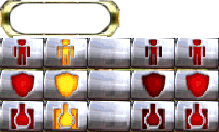
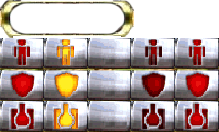
Added new buttons and functionality to buttons as Create conscripts

Changed region(s): [[0.411, 0.0, 0.6301, 0.303], [0.274, 0.2424, 0.3836, 0.2727], [0.274, 0.0, 0.3836, 0.0303]]

diff --git a/Order_227/Motor2D/UserInterface.cpp b/Order_227/Motor2D/UserInterface.cpp
@@ -9,6 +9,8 @@
 #include "Input.h"
 #include "Scene.h"
 #include "Window.h"
+#include "Animation.h"
+#include "Player.h"
 
 #include "UserInterface.h"
 #include "UIElement.h"
@@ -44,13 +46,11 @@ bool User_Interface::Awake(pugi::xml_node& config)
 	return ret;
 }
 
-// Called before the first frame
-bool User_Interface::Start()
-{
-	bool ret = true;
-	int x=0, y = 0;
-	SDL_Rect Timer_temp = { 0,0,60,48 };
-	for (int i = 0; i < 55; i++) {	
+void User_Interface::loadAnim() {
+
+	int x = 0, y = 0;
+
+	for (int i = 0; i < 57; ++i) {
 		if (x < 60 * 17) {
 			Timer_anim.PushBack(SDL_Rect({ x,y,60,48 }));
 			x += 60;
@@ -60,6 +60,14 @@ bool User_Interface::Start()
 			x = 0;
 		}
 	}
+}
+
+// Called before the first frame
+bool User_Interface::Start()
+{
+	bool ret = true;
+	
+	loadAnim();
 
 	atlas = myApp->tex->Load(atlasFileName.c_str());
 	mainBar = myApp->tex->Load("ui/Principal_Down_Bar.png");
@@ -100,10 +108,15 @@ bool User_Interface::Start()
 	selectorInfantry = CreateSpawnBox(true, fPoint(width / 11-38, height - 140), selectorInfantry_Rect, selectorinGame_Tex);
 	selectorDefenses = CreateSpawnBox(false, fPoint(width / 11 , height - 140), selectorDefenses_Rect, selectorinGame_Tex);
 	selectorTank = CreateSpawnBox(false, fPoint(width / 11 + 38, height - 140), selectorTank_Rect, selectorinGame_Tex);
-	//ConscriptCreator = CreateUnitBox(CreateConscript, fPoint(70, height - 95), Conscript_Selection_Rect, unitsSelection_Tex, selectorInfantry,Timer_Texture,10);
+	ConscriptCreator = CreateUnitBox(CreateConscript, fPoint(70, height - 95), Conscript_Selection_Rect, unitsSelection_Tex, selectorInfantry,Timer_Texture,10);
 
-	pauseMenuPanel = CreateImage(fPoint(width / 2, height / 2-100), SDL_Rect({ 0,0,185,355 }), pauseMenuPanel_Tex);
-	frameSelector = CreateImage(fPoint(width / 11, height - 140), SDL_Rect({ 0,0,120,38 }), selectorinGame_Tex);
+	pauseMenuPanel = CreateImage(fPoint(width / 2, height / 2-100), SDL_Rect({ 0,0,185,355 }), pauseMenuPanel_Tex,true);
+	pauseMenuPanel->Deactivate();
+	frameSelector = CreateImage(fPoint(width / 11, height - 140), SDL_Rect({ 0,0,134,38 }), selectorinGame_Tex);
+
+	SpawnSelectors.push_back(selectorInfantry);
+	SpawnSelectors.push_back(selectorDefenses);
+	SpawnSelectors.push_back(selectorTank);
 
 
 	return ret;
@@ -131,6 +144,10 @@ bool User_Interface::Update(float dt)
 	BROFILER_CATEGORY("Module User_Interface UpdateTick", Profiler::Color::DeepPink);
 	
 	bool ret = true;
+
+	if (unitCreationCD.ReadSec() >= 10) {
+		myApp->player->startCreationUnit = false;
+	}
 
 	for (std::list<UI_Element*>::iterator iter = screenElements.begin(); iter != screenElements.end(); iter = next(iter)) {
 		if ((*iter)->active == true) {

diff --git a/Order_227/Motor2D/UnitButton.cpp b/Order_227/Motor2D/UnitButton.cpp
@@ -3,42 +3,50 @@
 #include "UserInterface.h"
 #include "UnitButton.h"
 #include "SDL/include/SDL_rect.h"
-
+#include "Player.h"
 
 //Constructor
 Unit_Box::Unit_Box(event_function action, fPoint center, SDL_Rect spriteList[4], SDL_Texture* tex, UI_Element* parent, SDL_Texture* TimerTexture, int timeCreator, ui_type type)
 	: Action_Box(type, center, spriteList, tex, parent), action(action)
 {
-	//stateSprites = new SDL_Rect[(int)button_state::MAX_TYPES];
-
-	//for (int i = 0; i < (int)button_state::MAX_TYPES; i++) {
-	//	stateSprites[i] = spriteList[i];
-	//}
 	Timer_Texture = TimerTexture;
 	Timer = timeCreator;
 	Animation = &myApp->gui->Timer_anim;
-	Animation->speed = Timer / 10;
+	Animation->speed = Timer / 100.0f;
 };
 
 //State Entry
 void Unit_Box::OnPress() {
 	//myApp->audio->PlayFx(myApp->audio->buttonSfx.id, 0);
+
 	buttonStatus = button_state::PRESSING;
 	*sprite = stateSprites[(int)buttonStatus];
-	ActiveTimer = true;
-	action();
+
+	if (myApp->player->playerMoney >= 150&& myApp->player->startCreationUnit==false) {
+		ActiveTimer = true;
+		myApp->player->startCreationUnit = true;
+		myApp->gui->unitCreationCD.Start();
+		myApp->player->playerMoney -= 150;
+		action();
+	}
 }
 
 bool Unit_Box::Draw() {
 
 	bool ret = true;
 
-	//myApp->render->Blit(graphics, (int)position.x, (int)position.y, sprite, SDL_FLIP_NONE, false);
-	//
-	//if(ActiveTimer)
-	//myApp->render->Blit(Timer_Texture, (int)position.x, (int)position.y,&Animation->GetCurrentFrame(myApp->GetDT()));
-	//else {
-	//	Animation->Reset();
-	//}
+	if (active == true) {
+		myApp->render->Blit(graphics, (int)position.x, (int)position.y, sprite, SDL_FLIP_NONE, false);
+
+		if (ActiveTimer) {
+			myApp->render->Blit(Timer_Texture, (int)position.x, (int)position.y, &Animation->GetCurrentFrame(myApp->GetDT()), SDL_FLIP_NONE, false);
+			if (Animation->Finished()) {
+				ActiveTimer = false;
+			}
+		}
+		else {
+			Animation->Reset();
+		}
+	}
 	return ret;
 }

diff --git a/Order_227/Motor2D/Spawn_Box.cpp b/Order_227/Motor2D/Spawn_Box.cpp
@@ -1,5 +1,6 @@
 #include "Spawn_Box.h"
 #include "SDL/include/SDL_rect.h"
+#include "UserInterface.h"
 
 //Constructor
 Spawn_Box::Spawn_Box(bool value, event_function action, fPoint center, SDL_Rect spriteList[4], SDL_Texture* tex, UI_Element* parent)
@@ -39,10 +40,10 @@ void Spawn_Box::OnIdle()
 
 void Spawn_Box::OnHover()
 {
-	//if (!value) {
+	if (!value) {
 		buttonStatus = button_state::HOVERING;
 		*sprite = stateSprites[(int)button_state::HOVERING];
-	//}
+	}
 }
 
 void Spawn_Box::OnPress()
@@ -52,6 +53,16 @@ void Spawn_Box::OnPress()
 	SwitchValue();
 	valueStatus = GetValueState();
 	*sprite = stateSprites[(int)valueStatus];
+	ActivateChildren();
+	for (std::list<Spawn_Box*>::iterator iter = myApp->gui->SpawnSelectors.begin(); iter != myApp->gui->SpawnSelectors.end(); iter = next(iter)) 
+	{
+		if (this != (*iter)) {
+			(*iter)->value=false;
+			(*iter)->DeactivateChildren();
+			(*iter)->valueStatus = (*iter)->GetValueState();
+			*(*iter)->sprite = (*iter)->stateSprites[(int)(*iter)->valueStatus];
+		}
+	}
 
 	if (action != nullptr) {
 		action();

diff --git a/Order_227/Motor2D/UserInterface.h b/Order_227/Motor2D/UserInterface.h
@@ -3,6 +3,7 @@
 
 #include "Module.h"
 #include "Animation.h"
+#include "Timer.h"
 
 #define CURSOR_WIDTH 2
 
@@ -57,6 +58,8 @@ public:
 	
 	void AddElement(UI_Element* element);
 	void DestroyElement(UI_Element* element);
+	void loadAnim();
+
 	std::list<UI_Element*>::iterator DestroyElement(std::list<UI_Element*>::iterator iter);
 
 	//TODO: Factories should return their specific class type
@@ -89,6 +92,10 @@ public:
 	bool interfaceDebugDraw = false;
 	//uint defaultScale;	//IMPROVE: Future use
 	Animation Timer_anim;
+	Timer unitCreationCD;
+	Image* pauseMenuPanel;
+
+	std::list<Spawn_Box*> SpawnSelectors;
 
 private:
 	std::list<UI_Element*> screenElements;
@@ -96,7 +103,7 @@ private:
 	SDL_Texture* Timer_Texture;
 
 	Image* MainBarPanel;
-	Image* pauseMenuPanel;
+
 	Spawn_Box* selectorInfantry;
 	Spawn_Box* selectorDefenses;
 	Spawn_Box* selectorTank;
@@ -110,7 +117,7 @@ private:
 	SDL_Rect Conscript_Selection_Rect[4];
 
 	SDL_Texture* unitsSelection_Tex;
-	
+
 	SDL_Texture* selectorinGame_Tex;
 	SDL_Texture* pauseMenuPanel_Tex;
 	SDL_Texture* mainBar;

diff --git a/Order_227/Motor2D/Player.cpp b/Order_227/Motor2D/Player.cpp
@@ -15,6 +15,7 @@
 #include "GroupManager.h"
 #include "Player.h"
 
+
 Player::Player()
 {}
 
@@ -32,7 +33,7 @@ bool Player::Start()
 {
 	LOG("STARTING PLAYER MODULE");
 
-	//mouseDebugMark = myApp->gui->CreateText({ 0.0f, 0.0f }, "", font_id::DEFAULT, { 0, 0, 255, 255 });
+	mouseDebugMark = myApp->gui->CreateText({ 0.0f, 0.0f }, "", font_id::DEFAULT, { 0, 0, 255, 255 });
 
 	return true;
 }
@@ -44,6 +45,10 @@ bool Player::PreUpdate()
 
 bool Player::Update(float dt)
 {
+	//if (unitCreationCD.ReadSec() >= 10) {
+	//	startCreationUnit = false;
+	//}
+
 	UpdateMousePos();	// Mouse Position Update
 	CameraInputs(dt);	// Camera Inputs
 	DebugInputs();		// Debug Inputs
@@ -52,6 +57,14 @@ bool Player::Update(float dt)
 
 	if (myApp->gui->interfaceDebugDraw) {
 		DebugMouse();	// Mouse UI Debug data update
+	}
+
+	if (myApp->input->GetKey(SDL_SCANCODE_ESCAPE) == KEY_DOWN) {
+		if (myApp->gui->pauseMenuPanel->active == false) {
+			myApp->gui->pauseMenuPanel->Activate();
+		}
+		else
+			myApp->gui->pauseMenuPanel->Deactivate();
 	}
 
 	return true;

diff --git a/Order_227/Motor2D/ButtonActions.cpp b/Order_227/Motor2D/ButtonActions.cpp
@@ -1,7 +1,32 @@
 #include "ButtonActions.h"
+#include "App.h"
+#include "Entity_Manager.h"
+#include "time.h"
+#include "Map.h"
 
 void CreateConscript() {
+	//srand(time(NULL));
+	
 
 
+	//TODO NEED TO DESHARCODE
+	fPoint randomPos = {0,0};
+	int temp = rand() % 2;
+
+	switch (temp)
+	{
+	case 0:
+		randomPos.x = 48;
+		randomPos.y = rand() % 5 + 40;
+		break;
+	case 1:
+		randomPos.x = rand() % 5 + 43;
+		randomPos.y = 45;
+		break;
+	}
+
+	iPoint tempPoint =myApp->map->MapToWorld(iPoint(randomPos.x, randomPos.y));
+	fPoint test = myApp->entities->mainBase->position;
+	myApp->entities->ActivateInfantry(fPoint(tempPoint.x,tempPoint.y), infantry_type::BASIC, entity_faction::COMMUNIST);
 
 }

diff --git a/Order_227/Motor2D/UIElement.cpp b/Order_227/Motor2D/UIElement.cpp
@@ -83,6 +83,20 @@ void UI_Element::Deactivate()
 	}
 }
 
+void UI_Element::ActivateChildren()
+{
+	for (std::list<UI_Element*>::iterator iter = children.begin(); iter != children.end(); iter = next(iter)) {
+		(*iter)->active = true;
+	}
+}
+
+void UI_Element::DeactivateChildren()
+{
+	for (std::list<UI_Element*>::iterator iter = children.begin(); iter != children.end(); iter = next(iter)) {
+		(*iter)->active = false;
+	}
+}
+
 void UI_Element::AttachParent(UI_Element* parent)	//WARNING: Revise if parent-child relations get fucky, std implemented
 {
 	this->parent = parent;

diff --git a/Order_227/Motor2D/Player.h b/Order_227/Motor2D/Player.h
@@ -7,11 +7,13 @@
 //#include <vector>
 //#include <ctime>
 //#include "Point.h"
-//#include "SDL/include/SDL.h"
+//#include "SDL/include/SDL.h
+
 
 enum class infantry_type;
 enum class entity_faction;
 enum class unit_orders;
+
 class Text;
 
 class Player : public Module {
@@ -68,8 +70,9 @@ public:
 	iPoint rectangle_origin;
 
 	//Group playerGroup = nullptr;	//TODO: On group manager, should probably be here
-
+	
 	int playerMoney = 300;
+	bool startCreationUnit = false;
 
 };
 

diff --git a/Order_227/Motor2D/ActionBox.cpp b/Order_227/Motor2D/ActionBox.cpp
@@ -5,6 +5,11 @@
 Action_Box::Action_Box(ui_type type, fPoint center, SDL_Rect spriteList[4], SDL_Texture* tex, UI_Element* parent)
 	: Button(type, center, spriteList[(int)button_state::IDLE], tex, false, parent, NULL)
 {
+	stateSprites = new SDL_Rect[(int)button_state::MAX_TYPES];
+
+	for (int i = 0; i < (int)button_state::MAX_TYPES; i++) {
+		stateSprites[i] = spriteList[i];
+	}
 };
 
 Action_Box::~Action_Box()

diff --git a/Order_227/Motor2D/Building.h b/Order_227/Motor2D/Building.h
@@ -39,6 +39,8 @@ public:
 	bool Draw();
 	void UpdateBlitOrder();
 
+
+
 public:
 
 	//ADD ANIMATION
@@ -46,6 +48,8 @@ public:
 	SDL_Rect buildingBlitRect = {605, 1882, 212, 148 };
 	building_type buildingType;
 
+
+	
 	int health = 0;
 	int income = 0;
 	Timer incomeTimer;

diff --git a/Order_227/Motor2D/Scene.cpp b/Order_227/Motor2D/Scene.cpp
@@ -94,8 +94,8 @@ bool Scene::PostUpdate()
 {
 	bool ret = true;
 
-	if(myApp->input->GetKey(SDL_SCANCODE_ESCAPE) == KEY_DOWN)
-		ret = false;
+	//if(myApp->input->GetKey(SDL_SCANCODE_ESCAPE) == KEY_DOWN)
+	//	ret = false;
 
 	myApp->gui->Draw();
 

diff --git a/Order_227/Motor2D/UIElement.h b/Order_227/Motor2D/UIElement.h
@@ -70,6 +70,9 @@ public:
 	virtual void Activate();
 	virtual void Deactivate();
 
+	virtual void ActivateChildren();
+	virtual void DeactivateChildren();
+
 	virtual void AttachParent(UI_Element* parent);
 	virtual void DetachParent();
 
